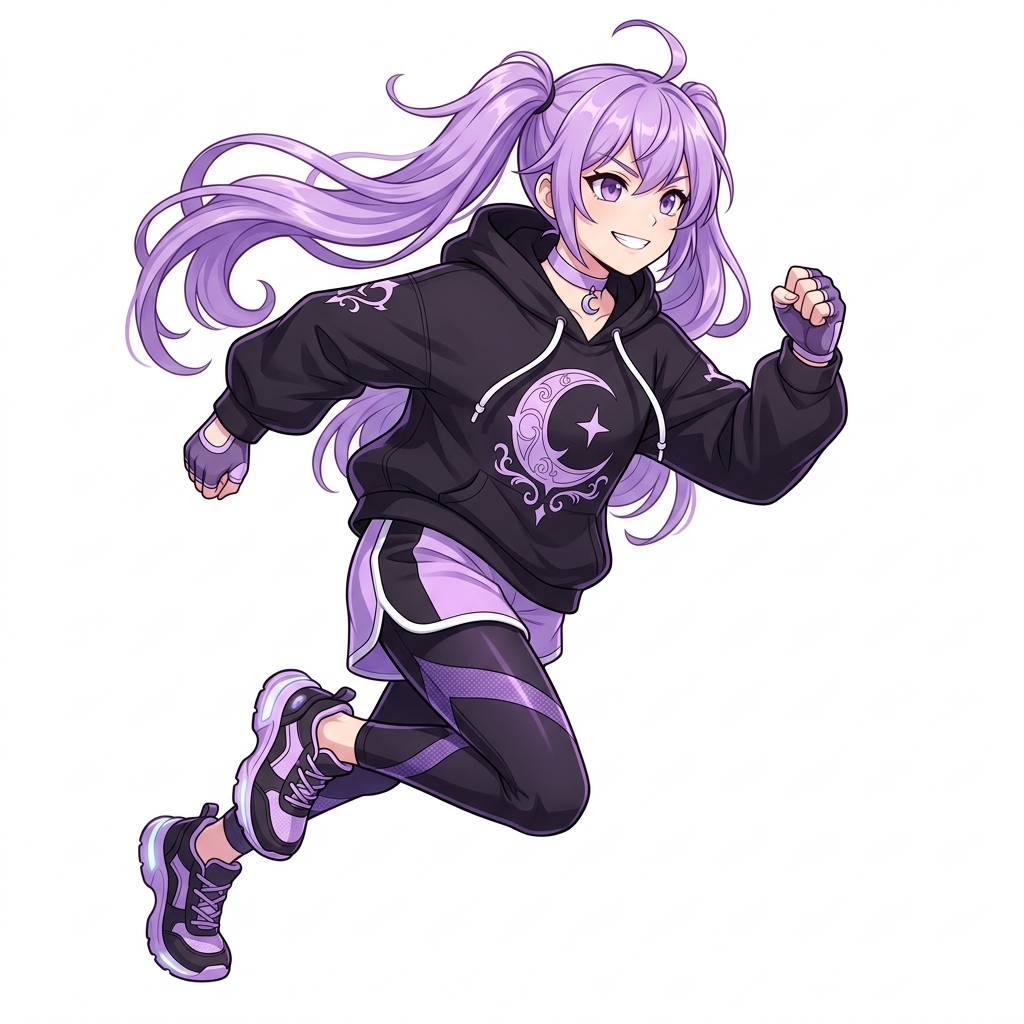
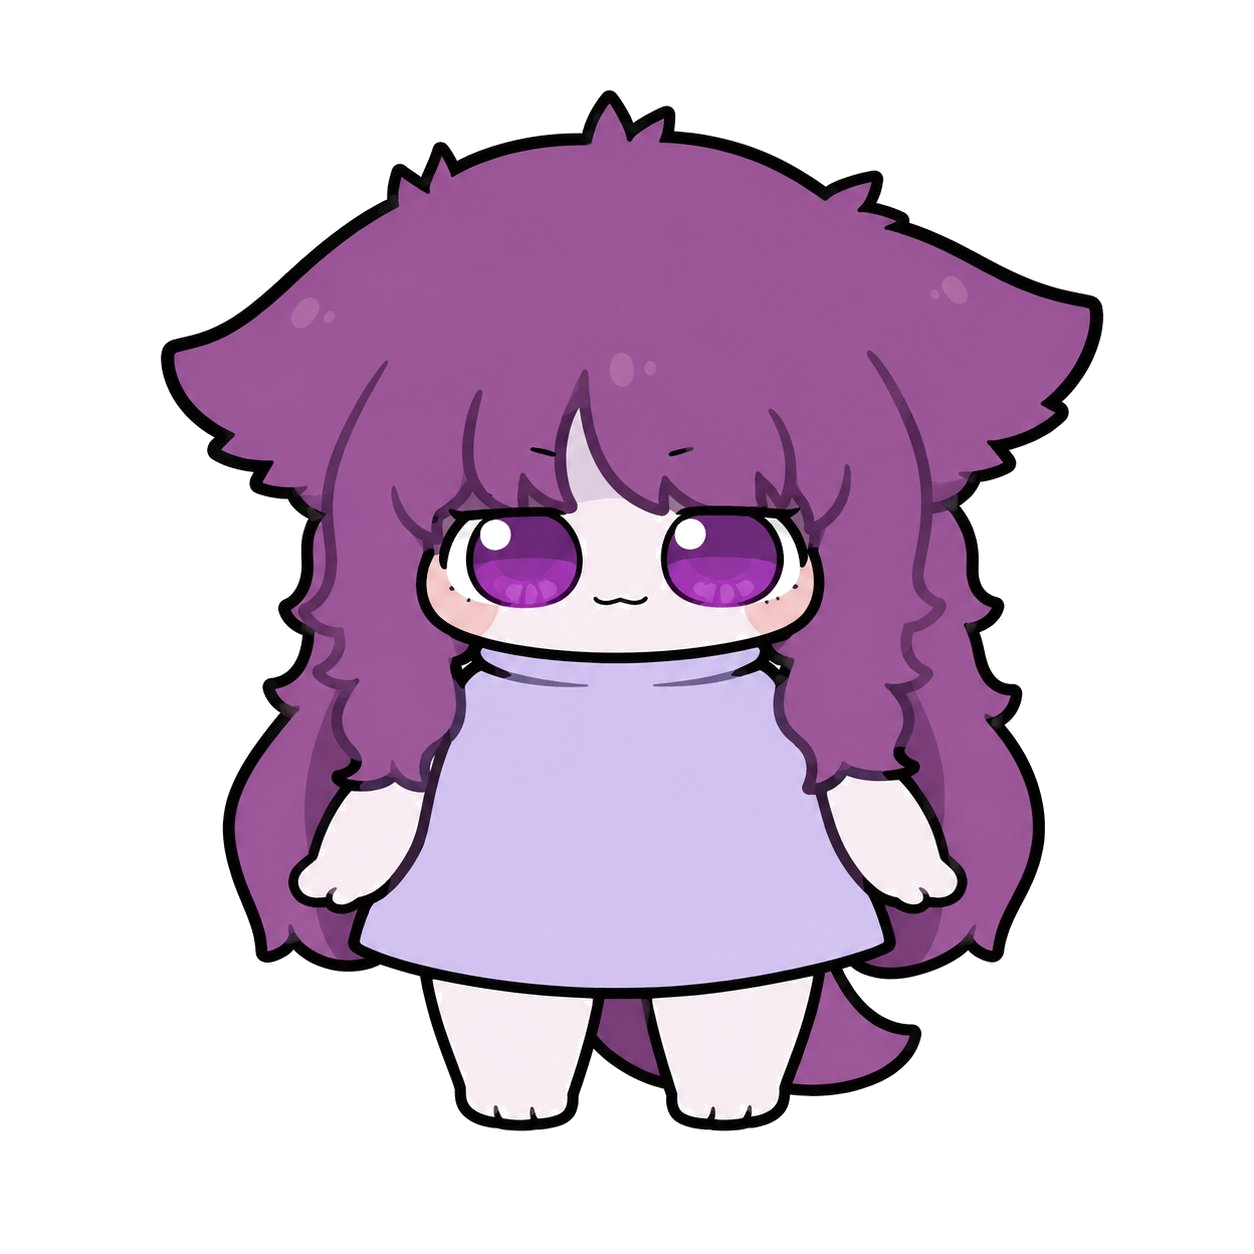
Fix character selection glow bleeding

diff --git a/js/main.js b/js/main.js
@@ -471,6 +471,7 @@ class Game {
   drawCharacterCard({ x, y, width, height, index, name, selectable, isSelected }) {
     const ctx = this.ctx;
 
+    // 1. 카드 배경 및 테두리 (Glow 효과 포함)
     ctx.save();
 
     ctx.fillStyle = selectable
@@ -497,8 +498,9 @@ class Game {
     ctx.fill();
     ctx.stroke();
 
-    ctx.shadowBlur = 0;
+    ctx.restore(); // Shadow 상태 해제
 
+    // 2. 캐릭터 이미지 (상태 초기화 후 렌더링)
     if (index === 0) {
       const character = this.characters[index];
       const cardImage = character && character.cardAssetKey
@@ -506,6 +508,15 @@ class Game {
         : null;
 
       if (cardImage && cardImage.complete !== false) {
+        ctx.save();
+        
+        // 캐릭터 이미지에 영향을 주지 않도록 상태 완전 초기화
+        ctx.shadowBlur = 0;
+        ctx.shadowColor = "transparent";
+        ctx.globalAlpha = 1;
+        ctx.filter = "none";
+        ctx.globalCompositeOperation = "source-over";
+
         const maxPreviewWidth = 190;
         const maxPreviewHeight = 210;
 
@@ -528,13 +539,19 @@ class Game {
           previewWidth,
           previewHeight
         );
+        
+        ctx.restore();
       } else {
+        ctx.save();
         ctx.fillStyle = "rgba(230, 190, 255, 0.75)";
         ctx.beginPath();
         ctx.ellipse(x + width / 2, y + 150, 54, 76, 0, 0, Math.PI * 2);
         ctx.fill();
+        ctx.restore();
       }
 
+      // 3. 카드 텍스트
+      ctx.save();
       ctx.font = "bold 30px Arial";
       ctx.fillStyle = "#ffffff";
       ctx.textAlign = "center";
@@ -544,9 +561,11 @@ class Game {
       ctx.font = "bold 18px Arial";
       ctx.fillStyle = "#ffd86b";
       ctx.fillText("SELECTABLE", x + width / 2, y + height - 38);
+      ctx.restore();
     }
 
     if (index === 1) {
+      ctx.save();
       const silhouetteX = x + width / 2;
       const silhouetteY = y + 150;
 
@@ -572,9 +591,8 @@ class Game {
       ctx.font = "bold 18px Arial";
       ctx.fillStyle = "rgba(255, 216, 107, 0.6)";
       ctx.fillText("LOCKED", x + width / 2, y + height - 40);
+      ctx.restore();
     }
-
-    ctx.restore();
   }
 
   handleCharacterSelectKeyDown(event) {
